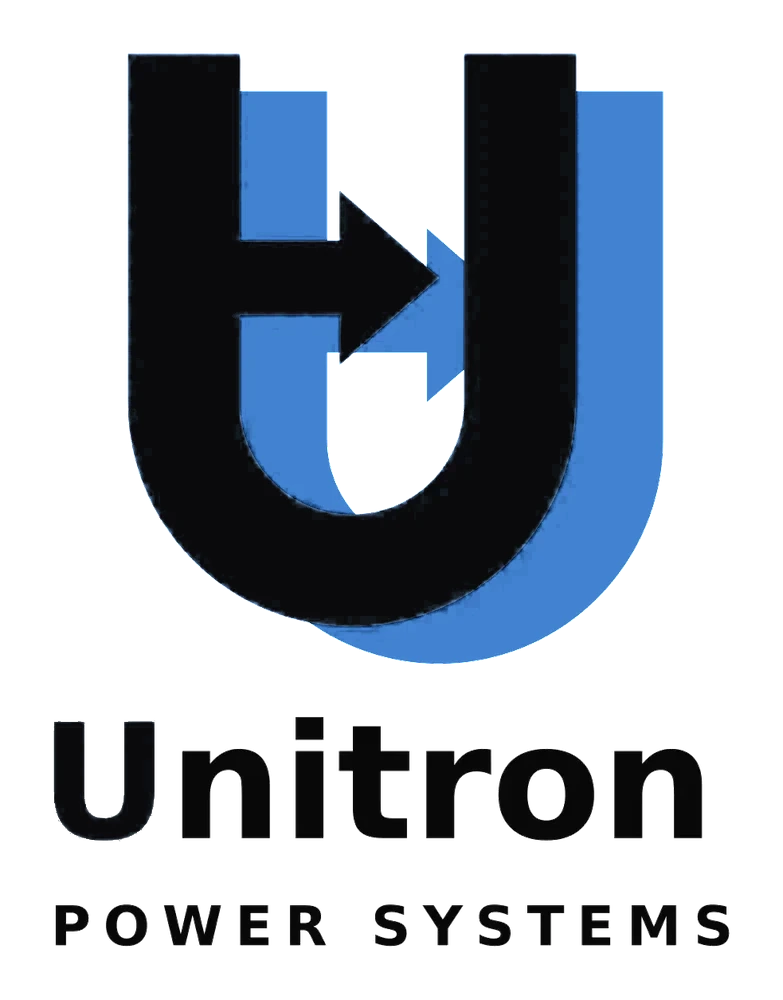
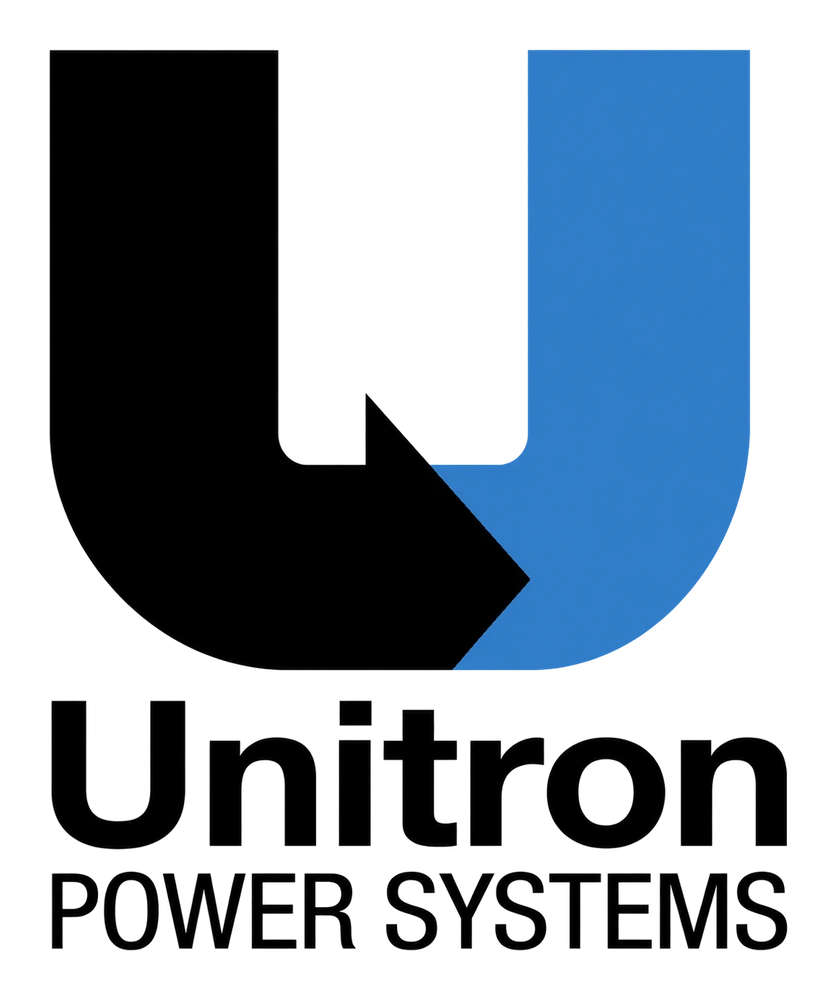
Case studies: use the supplied Unitron lockup for the hover reveal
Replace unitron.webp with the client-supplied color artwork (black U with
arrow, blue right stroke, black wordmark), keyed off its white background by
recovering per-pixel alpha from distance-to-white scaled by each pixel's
solid, so anti-aliased edges un-matte without a halo.

Keep the rest state a true desaturation so blacks stay black and only the
colored areas drop to grey, matching the supplied mono reference; hover
restores color with saturation pushed slightly past 1.

diff --git a/css/casestudies.css b/css/casestudies.css
@@ -66,19 +66,18 @@
 /* ---------- mono -> color logo reveal ---------- */
 
 /* Converted logos carry one transparent, full-color mark. At rest it is fully
-   desaturated and lifted toward light grey (lower contrast, higher brightness)
-   so it reads as a quiet placeholder; on hover/focus/tap it snaps back to full
-   contrast with saturation pushed past 1 so the color arrival is unmistakable.
-   The button click (opens the work overlay) is untouched. */
+   desaturated — blacks stay black, colored areas drop to grey — and on
+   hover/focus/tap the color returns with saturation pushed past 1 so the
+   arrival is unmistakable. The button click (work overlay) is untouched. */
 .cs-logo-btn--swap img {
-  filter: grayscale(1) contrast(0.62) brightness(1.22) opacity(0.85);
+  filter: grayscale(1) contrast(1.04) opacity(0.92);
   transition: filter 320ms cubic-bezier(0.2, 0.7, 0.3, 1);
 }
 
 .cs-logo-btn--swap:hover img,
 .cs-logo-btn--swap:focus-visible img,
 .cs-logo-btn--swap:active img {
-  filter: grayscale(0) contrast(1.06) saturate(1.25) brightness(1) opacity(1);
+  filter: grayscale(0) contrast(1.04) saturate(1.3) opacity(1);
 }
 
 /* ---------- "see more in the gallery" link under the logos ---------- */
